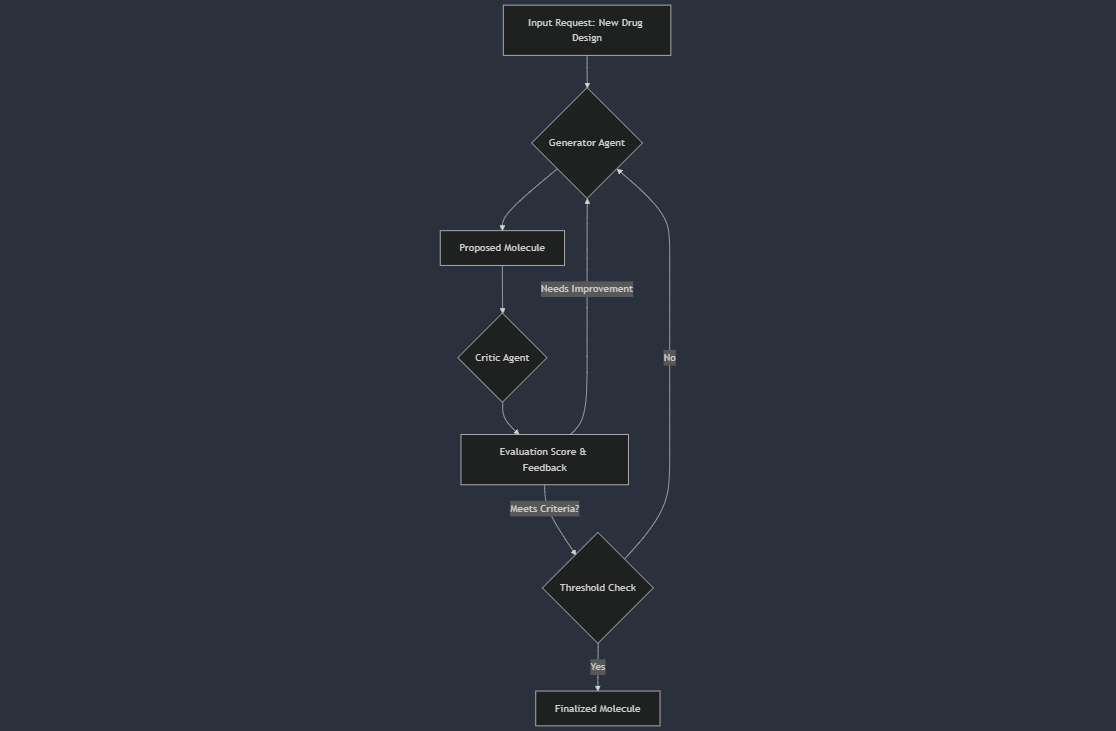
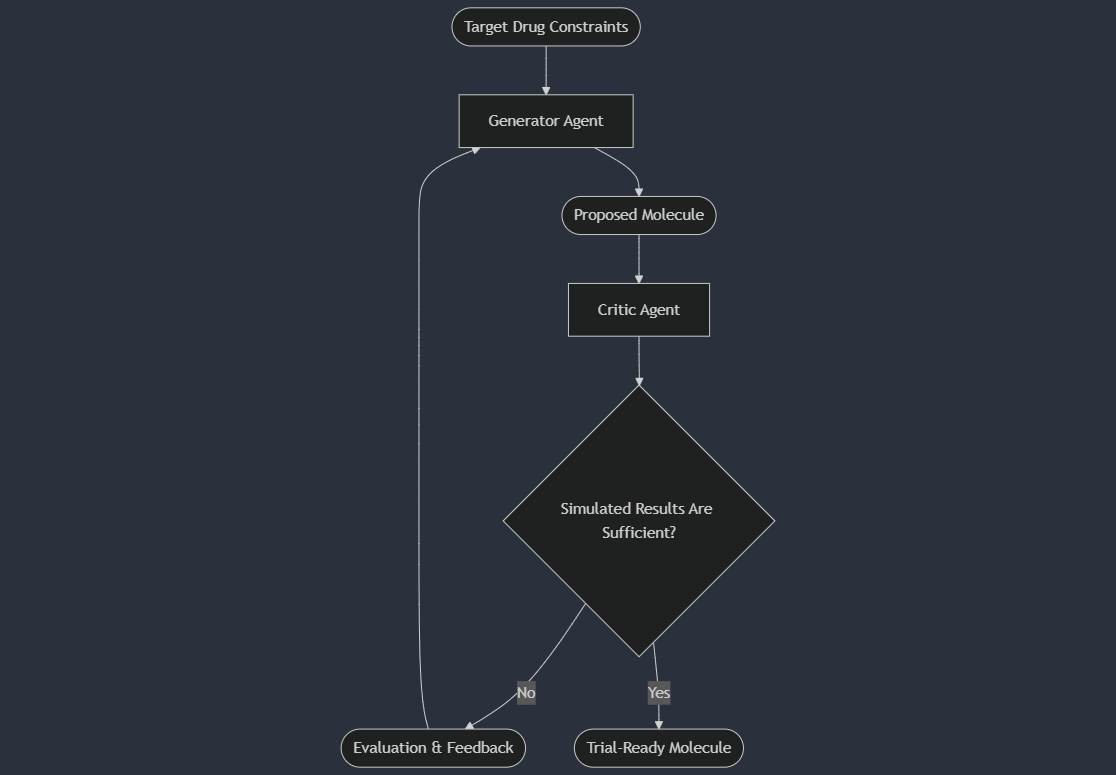
Update proposals based on feedback

diff --git a/voting/README.md b/voting/README.md
@@ -1,26 +1,27 @@
 In the Voting/Moderator pattern, agents interact as follows:
-1. Input Gathering: Multiple agents independently monitor different data sources (e.g., social media, news feeds, sensor data) to detect signals of potentially interesting world events.
+1. Input Processing: Three specialized agents analyze different aspects of input data (social media, news feeds, and anomaly detection).
 1. Proposal Generation: Each agent generates a hypothesis or signal about an event's importance or uniqueness (e.g., unusual social sentiment spikes or geopolitical developments).
-1. Voting Process: Agents submit their assessments to a Moderator Agent, which aggregates the scores or opinions.
-1. Decision Threshold: The Moderator Agent applies a threshold or weighted voting mechanism to determine if the event is “interesting” enough to warrant notification.
-1. Feedback Loop: The Moderator can provide feedback to individual agents to improve their detection models or adjust their sensitivity.
+1. Event Evaluation: The Moderator Agent processes inputs from all agents to determine if an interesting event has been detected.
+1. Decision Making: Based on the collective input, events are either flagged for user notification or discarded.
+1. User Feedback Loop: User responses to notifications help refine the Moderator Agent's decision-making process.
+    * The Moderator can provide feedback to individual agents to improve their detection models or adjust their sensitivity.
 
 -----
 
 ```mermaid
 flowchart TB
-    A[Input Data: Social Media, News, Sensors] --> B(Agent 1: Social Media Monitor)
+    A([Input Data: Social Media, News, Sensors]) --> B(Agent 3: Social Media Monitor)
     A --> C(Agent 2: News Feed Analyzer)
-    A --> D(Agent 3: Anomaly Detector)
+    A --> D(Agent 1: Anomaly Detector)
 
-    B --> E{Moderator Agent}
-    C --> E
-    D --> E
+    B <--> E(Moderator Agent)
+    C <--> E
+    D <--> E
 
-    E --> F{Decision: Interesting Event?}
+    E --> F{Interesting Event?}
 
     F -->|Yes| G[Notify User]
     F -->|No| H[Discard Event]
 
-    E --> I[Feedback to Agents]
+    G --> |User Feedback| E
 ```

diff --git a/generator-critic/README.md b/generator-critic/README.md
@@ -1,22 +1,21 @@
-In the Generator-Critic Loop pattern, two agents iteratively refine an output until it meets a predefined threshold of quality.
-1. Input Request: A molecular design problem is given.
-1. Generator Agent: Proposes a new molecule structure.
-1. Critic Agent: Evaluates the molecule based on properties like bioavailability, toxicity, and synthesis feasibility.
-1. Feedback Loop: The Generator iterates and refines the molecule based on feedback.
-1. Threshold Check: Once a molecule meets the criteria, it is finalized.
+In the Generator-Critic Loop pattern, two agents iteratively refine a molecule design until it meets target drug constraints.
+1. Target Constraints: Initial drug design requirements and constraints are provided.
+1. Generator Agent: Creates or modifies a molecule structure based on target constraints and feedback.
+1. Critic Agent: Evaluates the proposed molecule through simulation and analysis.
+1. Evaluation Loop: If the molecule needs improvement, detailed feedback is provided to the Generator.
+1. Final Output: When simulated results meet requirements, a trial-ready molecule is produced.
 
 -----
 
 ```mermaid
 flowchart TB
-    A[Input Request: New Drug Design] --> B{Generator Agent}
-    B --> C[Proposed Molecule]
-    C --> D{Critic Agent}
-    D --> E[Evaluation Score & Feedback]
+    A([Target Drug Constraints]) --> B(Generator Agent)
+    B --> C([Proposed Molecule])
+    C --> D(Critic Agent)
+    D --> E{Simulated Results Are Sufficient?}
 
-    E -->|Needs Improvement| B
-    E -->|Meets Criteria?| F{Threshold Check}
+    E -->|No| F([Evaluation & Feedback])
+    F --> B
 
-    F -->|No| B
-    F -->|Yes| G[Finalized Molecule]
+    E -->|Yes| G([Trial-Ready Molecule])
 ```

diff --git a/aggregation/README.md b/aggregation/README.md
@@ -1,20 +1,22 @@
 In the Aggregation pattern, multiple agents handle different sub-tasks and feed their results into a central aggregator agent that synthesizes the final output.
-1. Input Query: The user or system provides a research query.
-1. Parallel Sub-Tasks: Specialized agents fetch data from different sources (e.g., scientific papers, clinical trial data, and patents).
-1. Aggregation: The Aggregator Agent synthesizes the data, generating a comprehensive report.
-1. Output Generation: The final report is delivered to the user.
+1. User Query: A query is submitted to the Orchestrator Agent.
+1. Task Distribution: The Orchestrator Agent delegates sub-tasks to specialized agents for different data sources (e.g., scientific papers, clinical trial data, and patents).
+1. Parallel Processing: Each specialized agent retrieves and processes data from its designated source.
+1. Aggregation: The Aggregator Agent combines the results from all specialized agents.
+1. Output Generation: A comprehensive report is produced incorporating all gathered information.
 
 -----
 
 ```mermaid
-flowchart TB
-    A[Input Query] --> B(Agent 1: Scientific Paper Retriever)
+flowchart TB  
+    Z([User Query]) --> A
+    A[Orchestrator Agent] --> B(Agent 1: Scientific Paper Retriever)
     A --> C(Agent 2: Clinical Trial Data Analyzer)
     A --> D(Agent 3: Patent Information Extractor)
 
-    B --> E{Aggregator Agent}
+    B --> E(Aggregator Agent)
     C --> E
     D --> E
 
-    E --> F[Comprehensive Report]
+    E --> F([Comprehensive Report])
 ```

diff --git a/delegation/README.md b/delegation/README.md
@@ -1,22 +1,22 @@
 In the Delegation pattern, agents handle distinct phases of drug development, passing control from one phase to the next.
-1. Input Molecule: The initial molecule candidate is provided.
+1. Input Molecule: The initial molecule candidate is provided to the Orchestrator Agent.
+1. Molecule Simulation Agent: Performs computational analysis and simulations of the molecule.
 1. Preclinical Agent: Analyzes in vitro and animal testing results.
-1. Regulatory Agent: Ensures compliance with regulations.
-1. Trial Design Agent: Designs and executes clinical trials.
-1. Manufacturing Agent: Prepares for large-scale production.
+1. Regulatory Agent: Ensures compliance with regulations and guidelines.
+1. Trial Design Agent: Creates a comprehensive clinical trial plan.
 
 -----
 
 ```mermaid
 flowchart TB
-    A[Input Molecule] --> B{Orchestrator Agent}
-    B --> C(Preclinical Agent)
-    B --> D(Regulatory Agent)
+    
+    A([Input Molecule]) --> B[Orchestrator Agent]
+    
+    B <--> Z(Molecule Simulation Agent)
+    B <--> C(Preclinical Agent)
+    B <--> D(Regulatory Agent)
     B --> E(Trial Design Agent)
-    B --> F(Manufacturing Agent)
 
-    C -->|Results| B
-    D -->|Results| B
-    E -->|Results| B
-    F --> G[Approved Drug]
+    
+    E --> G([Proposed Trial Plan])
 ```
